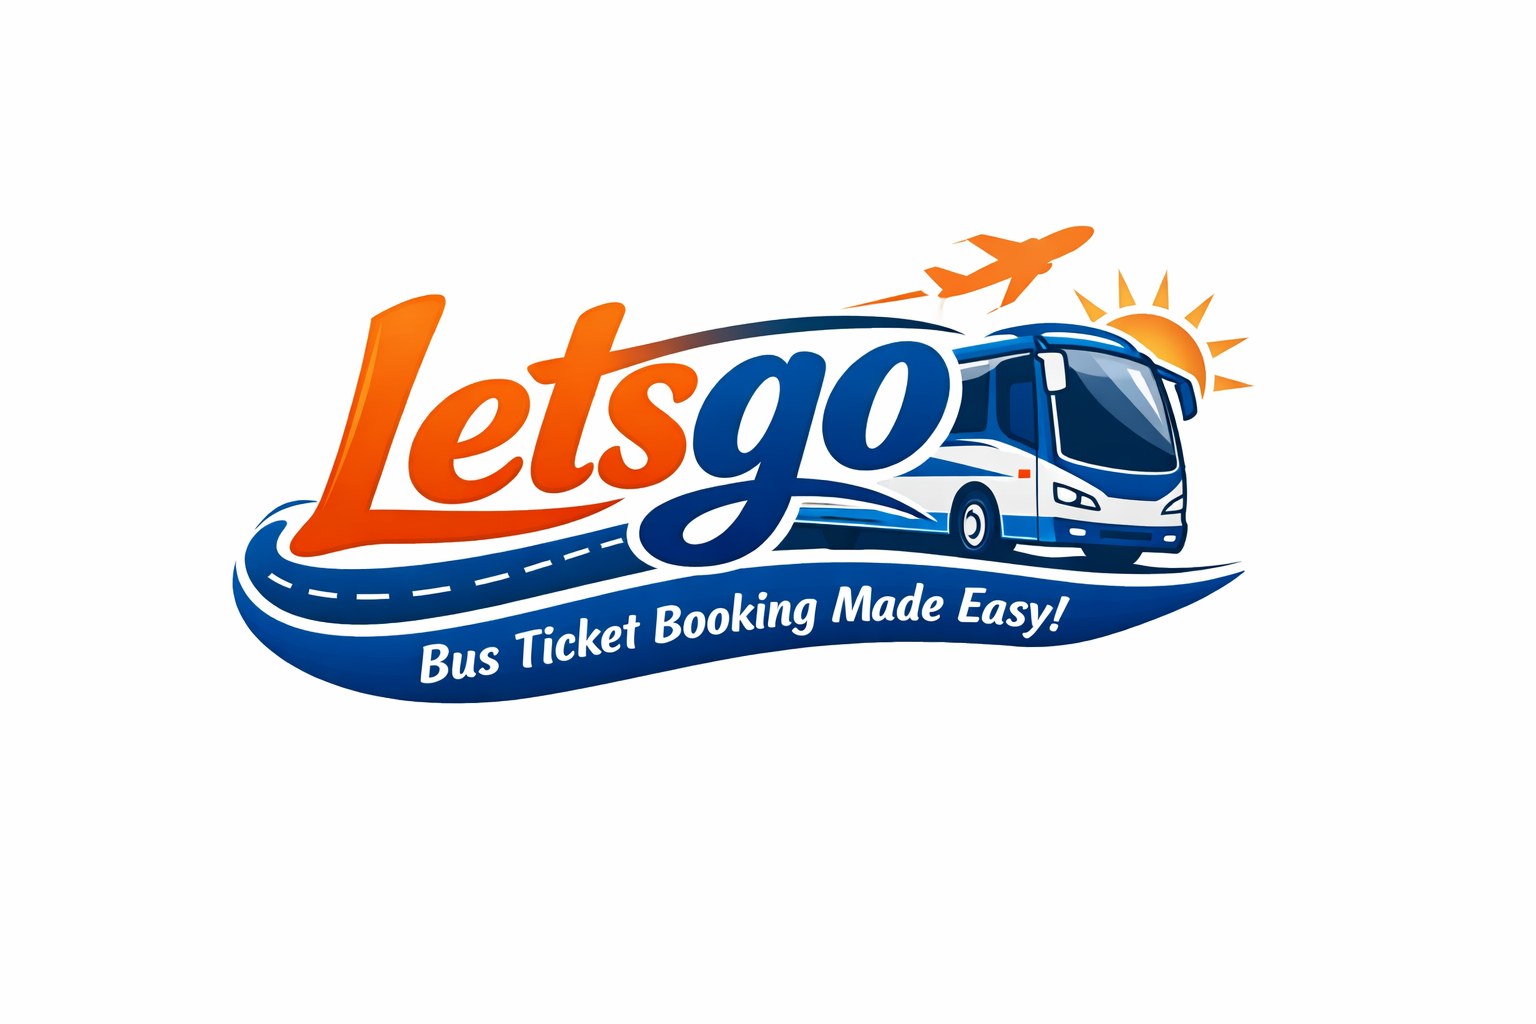
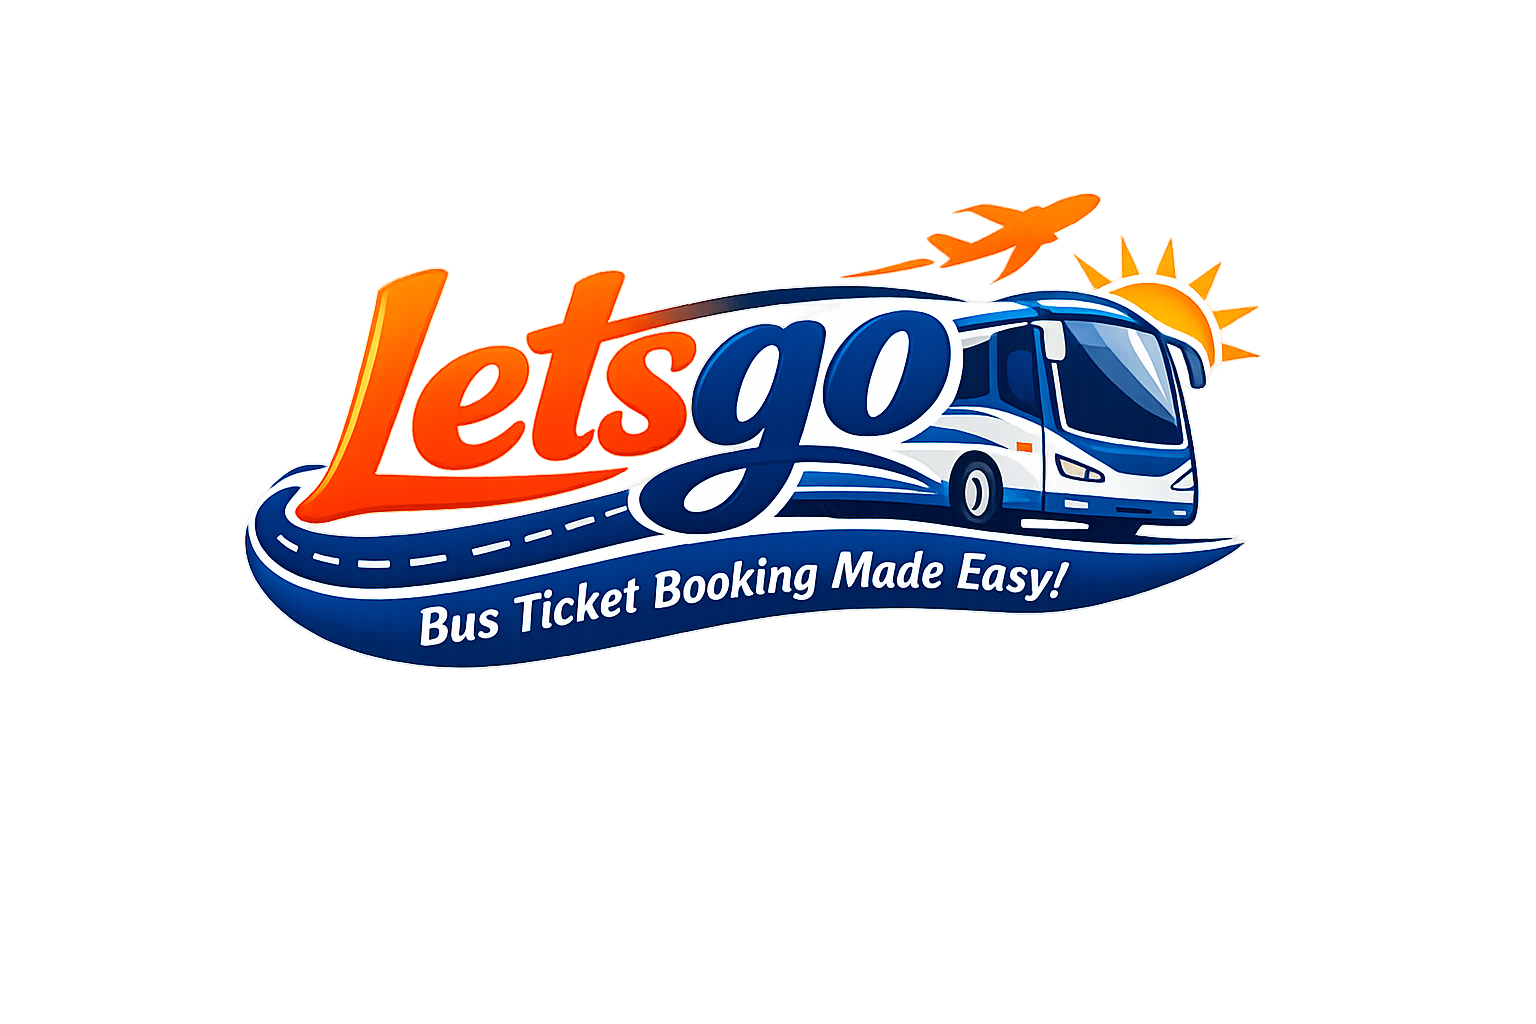
latest UI updates

Changed region(s): [[0.125, 0.1875, 0.8125, 0.6875]]

diff --git a/app/components/About.tsx b/app/components/About.tsx
@@ -3,7 +3,86 @@ export default function About() {
     <section id="about" className="py-16">
       <div className="mx-auto max-w-6xl px-6">
         <h2 className="text-2xl font-bold text-slate-900">About LetsGo</h2>
-        <p className="mt-3 text-slate-600 max-w-3xl">LetsGo helps bus operators move away from legacy systems with a modern platform for bookings, fleet management and payments. Built for scale and reliability.</p>
+
+        <p className="mt-4 text-slate-600 max-w-3xl">LetsGo was created with one simple goal — to make bus travel easy, affordable, and accessible for everyone.</p>
+
+        <div className="mt-6 space-y-6 max-w-4xl">
+          <p className="text-slate-700">We connect travelers with trusted bus operators across multiple cities, offering a smooth online booking experience with real-time availability, secure payments, and instant confirmation.</p>
+          <p className="text-slate-700">Whether you’re planning a weekend getaway or a long-distance journey, LetsGo helps you travel smarter.</p>
+        </div>
+
+        <div className="mt-10 grid gap-8 md:grid-cols-2">
+          <div>
+            <h3 className="text-lg font-semibold text-slate-900">Our Mission</h3>
+            <p className="mt-2 text-slate-600">To simplify bus ticket booking through technology and provide reliable travel experiences.</p>
+          </div>
+
+          <div>
+            <h3 className="text-lg font-semibold text-slate-900">Our Vision</h3>
+            <p className="mt-2 text-slate-600">To become India’s most trusted online bus booking platform.</p>
+          </div>
+        </div>
+
+        <div className="mt-10">
+          <h3 className="text-lg font-semibold text-slate-900">What We Offer</h3>
+          <ul className="mt-3 list-inside list-disc space-y-2 text-slate-600">
+            <li>Fast &amp; simple ticket booking</li>
+            <li>Verified bus operators</li>
+            <li>Best fare options</li>
+            <li>Secure online payments</li>
+            <li>24/7 customer support</li>
+          </ul>
+        </div>
+
+        <div className="mt-10">
+          <h3 className="text-lg font-semibold text-slate-900">FAQ</h3>
+          <div className="mt-4 space-y-3 text-slate-700">
+            <div>
+              <p className="font-medium">How do I book a ticket on LetsGo?</p>
+              <p className="mt-1 text-slate-600">Enter your From, To, travel date, select your bus, choose seats, and complete payment.</p>
+            </div>
+
+            <div>
+              <p className="font-medium">Will I get instant confirmation?</p>
+              <p className="mt-1 text-slate-600">Yes. Once payment is successful, your ticket is confirmed immediately.</p>
+            </div>
+
+            <div>
+              <p className="font-medium">Can I cancel my ticket?</p>
+              <p className="mt-1 text-slate-600">Yes. Cancellation depends on the operator’s policy. Refunds are processed as per terms.</p>
+            </div>
+
+            <div>
+              <p className="font-medium">What payment methods are supported?</p>
+              <p className="mt-1 text-slate-600">UPI, Debit Cards, Credit Cards, and Net Banking.</p>
+            </div>
+
+            <div>
+              <p className="font-medium">Is my payment secure?</p>
+              <p className="mt-1 text-slate-600">Absolutely. We use encrypted payment gateways to protect your data.</p>
+            </div>
+
+            <div>
+              <p className="font-medium">How do I contact support?</p>
+              <p className="mt-1 text-slate-600">Email: <a className="text-indigo-600 hover:underline" href="mailto:support@letsgo.com">support@letsgo.com</a> | Phone: +91 XXXXX XXXXX</p>
+            </div>
+          </div>
+        </div>
+
+        <div className="mt-10">
+          <h3 className="text-lg font-semibold text-slate-900">Privacy Policy (Short Version)</h3>
+          <p className="mt-2 text-slate-600">At LetsGo, your privacy matters. We collect only necessary information such as name, mobile number, and booking details to provide our services. We do NOT sell your personal data to third parties. All payments are processed securely through certified payment partners. For any privacy concerns, contact: <a className="text-indigo-600 hover:underline" href="mailto:privacy@letsgo.com">privacy@letsgo.com</a></p>
+        </div>
+
+        <div className="mt-10">
+          <h3 className="text-lg font-semibold text-slate-900">Terms &amp; Conditions (Short)</h3>
+          <p className="mt-2 text-slate-600">Tickets are subject to operator availability. Cancellation &amp; refund policies vary by operator. LetsGo acts as a booking platform, not a transport provider. Users must provide accurate booking information.</p>
+        </div>
+
+        <div className="mt-10 pb-6">
+          <h3 className="text-lg font-semibold text-slate-900">Contact Us</h3>
+          <p className="mt-2 text-slate-600">Have questions or need assistance? Email: <a className="text-indigo-600 hover:underline" href="mailto:support@letsgo.com">support@letsgo.com</a> | Phone: +91 XXXXX XXXXX — 24/7 Support Available</p>
+        </div>
       </div>
     </section>
   );

diff --git a/app/components/Header.tsx b/app/components/Header.tsx
@@ -12,16 +12,17 @@ export default function Header() {
   return (
     <header className="w-full bg-gradient-to-r from-[rgba(14,165,233,0.06)] to-[rgba(47,191,113,0.03)] backdrop-blur-sm border-b border-gray-100">
       <div className="mx-auto max-w-6xl px-6 py-5 flex items-center justify-between">
-        <Link href="/" className="flex items-center gap-3" aria-label="Homepage">
-          <img src="/letsgo.png" alt="LetsGo" className="h-10 w-auto" />
-          <div>
+        <Link href="/" className="flex items-center gap-1" aria-label="Homepage">
+          <img src="/letsgo.png" alt="LetsGo" className="h-20 w-40" />
+          {/* <div>
             <div className="font-semibold text-lg text-slate-800">LetsGo</div>
             <div className="text-xs text-[var(--muted)]">Premium Bus Tickets</div>
-          </div>
+          </div> */}
         </Link>
 
         <nav className="hidden md:flex items-center gap-6 text-sm text-slate-700" aria-label="Primary navigation">
           <a href="/" className="hover:text-[var(--theme-primary)] transition">Home</a>
+          <a href="/about" className="hover:text-[var(--theme-primary)] transition">About</a>
           <a href="/bookings" className="hover:text-[var(--theme-primary)] transition" aria-label="Bookings">Bookings</a>
           {user ? (
             <>

diff --git a/public/sw.js b/public/sw.js
@@ -1,0 +1,47 @@
+// Simple service worker for basic offline caching.
+const CACHE_NAME = "letsgo-cache-v1";
+const PRECACHE_URLS = [
+  "/",
+  "/manifest.webmanifest",
+  "/icons/favicon.png",
+  "/icons/icon-512.svg",
+];
+
+self.addEventListener("install", (event) => {
+  event.waitUntil(
+    caches.open(CACHE_NAME).then((cache) => cache.addAll(PRECACHE_URLS))
+  );
+  self.skipWaiting();
+});
+
+self.addEventListener("activate", (event) => {
+  event.waitUntil(
+    caches.keys().then((keys) =>
+      Promise.all(
+        keys
+          .filter((key) => key !== CACHE_NAME)
+          .map((key) => caches.delete(key))
+      )
+    )
+  );
+  self.clients.claim();
+});
+
+self.addEventListener("fetch", (event) => {
+  // For navigation requests, try network first then fallback to cache
+  if (event.request.mode === "navigate") {
+    event.respondWith(
+      fetch(event.request)
+        .then((response) => {
+          return response;
+        })
+        .catch(() => caches.match("/"))
+    );
+    return;
+  }
+
+  // For other requests, use cache-first strategy
+  event.respondWith(
+    caches.match(event.request).then((cached) => cached || fetch(event.request))
+  );
+});

diff --git a/app/layout.tsx b/app/layout.tsx
@@ -2,6 +2,7 @@ import type { Metadata } from "next";
 import { Geist, Geist_Mono } from "next/font/google";
 import "./globals.css";
 import { UserProvider } from "./providers/UserProvider";
+import ServiceWorkerRegister from "./components/ServiceWorkerRegister";
 
 const geistSans = Geist({
   variable: "--font-geist-sans",
@@ -25,11 +26,17 @@ export default function RootLayout({
 }>) {
   return (
     <html lang="en">
+      <head>
+        <link rel="manifest" href="/manifest.webmanifest" />
+        <meta name="theme-color" content="#4f46e5" />
+        <link rel="apple-touch-icon" href="/icons/favicon.png" />
+      </head>
       <body
         className={`${geistSans.variable} ${geistMono.variable} antialiased`}
         suppressHydrationWarning={true}
       >
         <UserProvider>
+          <ServiceWorkerRegister />
           {children}
         </UserProvider>
       </body>

diff --git a/app/components/ServiceWorkerRegister.tsx b/app/components/ServiceWorkerRegister.tsx
@@ -1,0 +1,31 @@
+"use client";
+
+import { useEffect } from "react";
+
+export default function ServiceWorkerRegister() {
+  useEffect(() => {
+    if (typeof window === "undefined") return;
+    if (!("serviceWorker" in navigator)) return;
+
+    const onLoad = async () => {
+      try {
+        const reg = await navigator.serviceWorker.register("/sw.js");
+        // eslint-disable-next-line no-console
+        console.log("ServiceWorker registered:", reg);
+      } catch (err) {
+        // eslint-disable-next-line no-console
+        console.error("ServiceWorker registration failed:", err);
+      }
+    };
+
+    // register after page load to avoid blocking
+    if (document.readyState === "complete") onLoad();
+    else window.addEventListener("load", onLoad);
+
+    return () => {
+      window.removeEventListener("load", onLoad);
+    };
+  }, []);
+
+  return null;
+}

diff --git a/app/about/page.tsx b/app/about/page.tsx
@@ -1,0 +1,20 @@
+import type { Metadata } from "next";
+import Header from "../components/Header";
+import Footer from "../components/Footer";
+import About from "../components/About";
+
+export const metadata: Metadata = {
+  title: "About — LetsGo",
+};
+
+export default function AboutPage() {
+  return (
+    <>
+      <Header />
+      <main className="pt-6">
+        <About />
+      </main>
+      <Footer />
+    </>
+  );
+}
